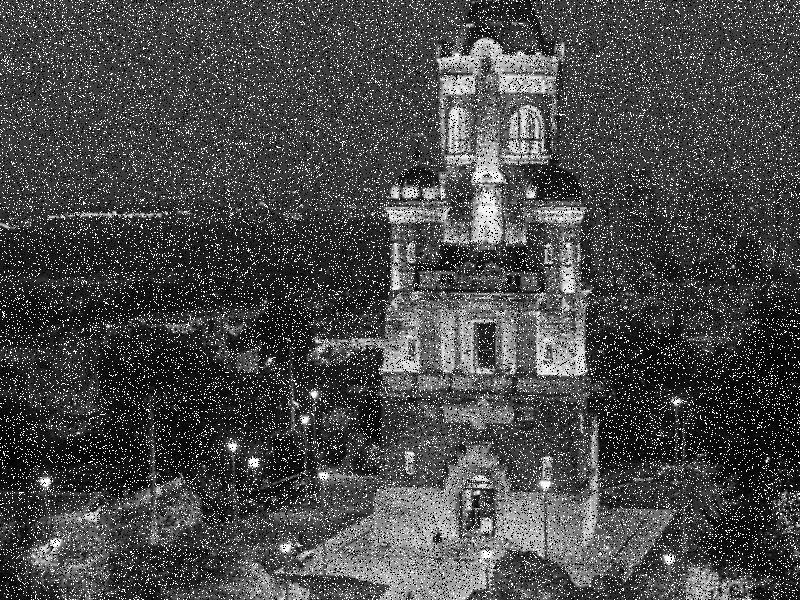
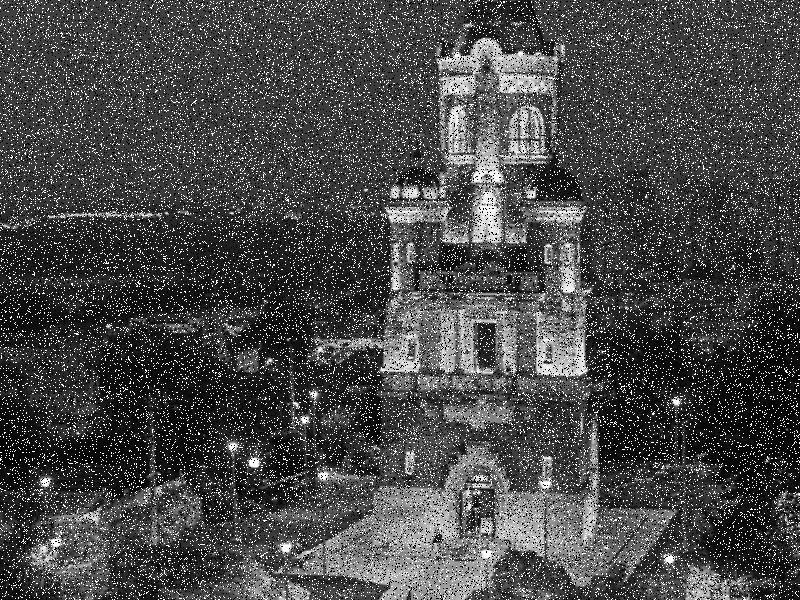
median filtar works fine, noch filtar added

diff --git a/zad1.py b/zad1.py
@@ -11,6 +11,19 @@ import matplotlib.pyplot as plt
 from pylab import *
 import numpy as np
 
+def noch_filtar(P: int, Q: int) -> np.array:
+    noch = np.zeros([P, Q])
+    D0 = math.sqrt(700)
+    D1 = math.sqrt(5000)
+    for u in range(P):
+        for v in range(Q):
+            D = math.sqrt((u-P/2)**2 + (v-Q/2)**2)
+            if D**2 > D0**2 and D**2 < D1**2:
+                noch[u, v] = 0
+            else:
+                noch[u, v] = 1
+    return noch
+
 def gauss_filtar(Q: int, P: int) -> np.array:
     gauss = np.zeros([P, Q])
     D0 = 250
@@ -33,16 +46,16 @@ if __name__ == "__main__":
     img_in = skimage.img_as_float(imread('../sekvence/half_tone.jpg'))
     plt.figure(num=None, figsize=(8, 6), dpi=80)
     io.imshow(img_in)
-    gauss = batervort_filtar(img_in.shape[0], img_in.shape[1])
+    gauss = noch_filtar(img_in.shape[0], img_in.shape[1])
     img_out_fft = np.zeros(img_in.shape, dtype = complex)
     img_out = np.zeros(img_in.shape)
     for i in range(3):
         img_fft = np.fft.fftshift(np.fft.fft2(img_in[:, :, i]))
         # img_amp = abs(img_fft)
         img_out_fft[:, :, i] = img_fft*gauss
-        img_amp = abs(img_out_fft)
+        img_amp = abs(img_out_fft[:, :, i])
         img_out[:, :, i] = np.fft.ifft2(np.fft.ifftshift(img_out_fft[:, :, i]))
         output = "zad1/filtrated_fft_" + str(i) + ".jpg"
-        # imsave(output, np.log(1+img_amp), cmap='gray');
+        imsave(output, np.log(1+img_amp), cmap='gray');
     plt.figure()
     io.imshow(img_out)

diff --git a/zad2.py b/zad2.py
@@ -8,6 +8,7 @@ import skimage
 from pylab import *
 import numpy as np
 from skimage import io
+import math
 
 import matplotlib.pyplot as plt
 
@@ -23,6 +24,7 @@ if __name__ == "__main__":
     # FFT slike i kernela
     img_fft = np.fft.fftshift(np.fft.fft2(img_in))
     kernel_fft = np.fft.fftshift(np.fft.fft2(kernel))
+    kernel_fft[math.floor(kernel_fft.shape[0]/2), math.floor(kernel_fft.shape[1]/2)] = 1
     
     plt.figure()
     io.imshow(log(1+abs(kernel_fft)), cmap = 'gray')
@@ -31,7 +33,7 @@ if __name__ == "__main__":
     io.imshow(log(1+abs(np.fft.fftshift(np.fft.fft2(kernel1)))), cmap = 'gray')
     
     #Vinerov filtar
-    F_est_fft = (abs(kernel_fft)**2/(abs(kernel_fft)**2+0.001))*img_fft/kernel_fft
+    F_est_fft = img_fft/kernel_fft*(abs(kernel_fft)**2/(abs(kernel_fft)**2+1))
     f_est = np.fft.ifft2(np.fft.ifftshift(F_est_fft))
     
     plt.figure()

diff --git a/zad4.py b/zad4.py
@@ -105,9 +105,7 @@ def dos_median(img_in: np.array, s_max: int, adaptive: bool) ->np.array:
         for i in range(img_in.shape[0]):
             for j in range(img_in.shape[1]):
                 matrix = make_mat(img_in, window, i, j)
-                if not img_in[i][j] == find_max(matrix) and not img_in[i][j] == find_min(matrix):
-                    img_out[i][j]=img_in[i][j]
-                    continue
+                
                 img_out[i][j] = find_median(matrix, window)
     else:
         for i in range(img_in.shape[0]):
